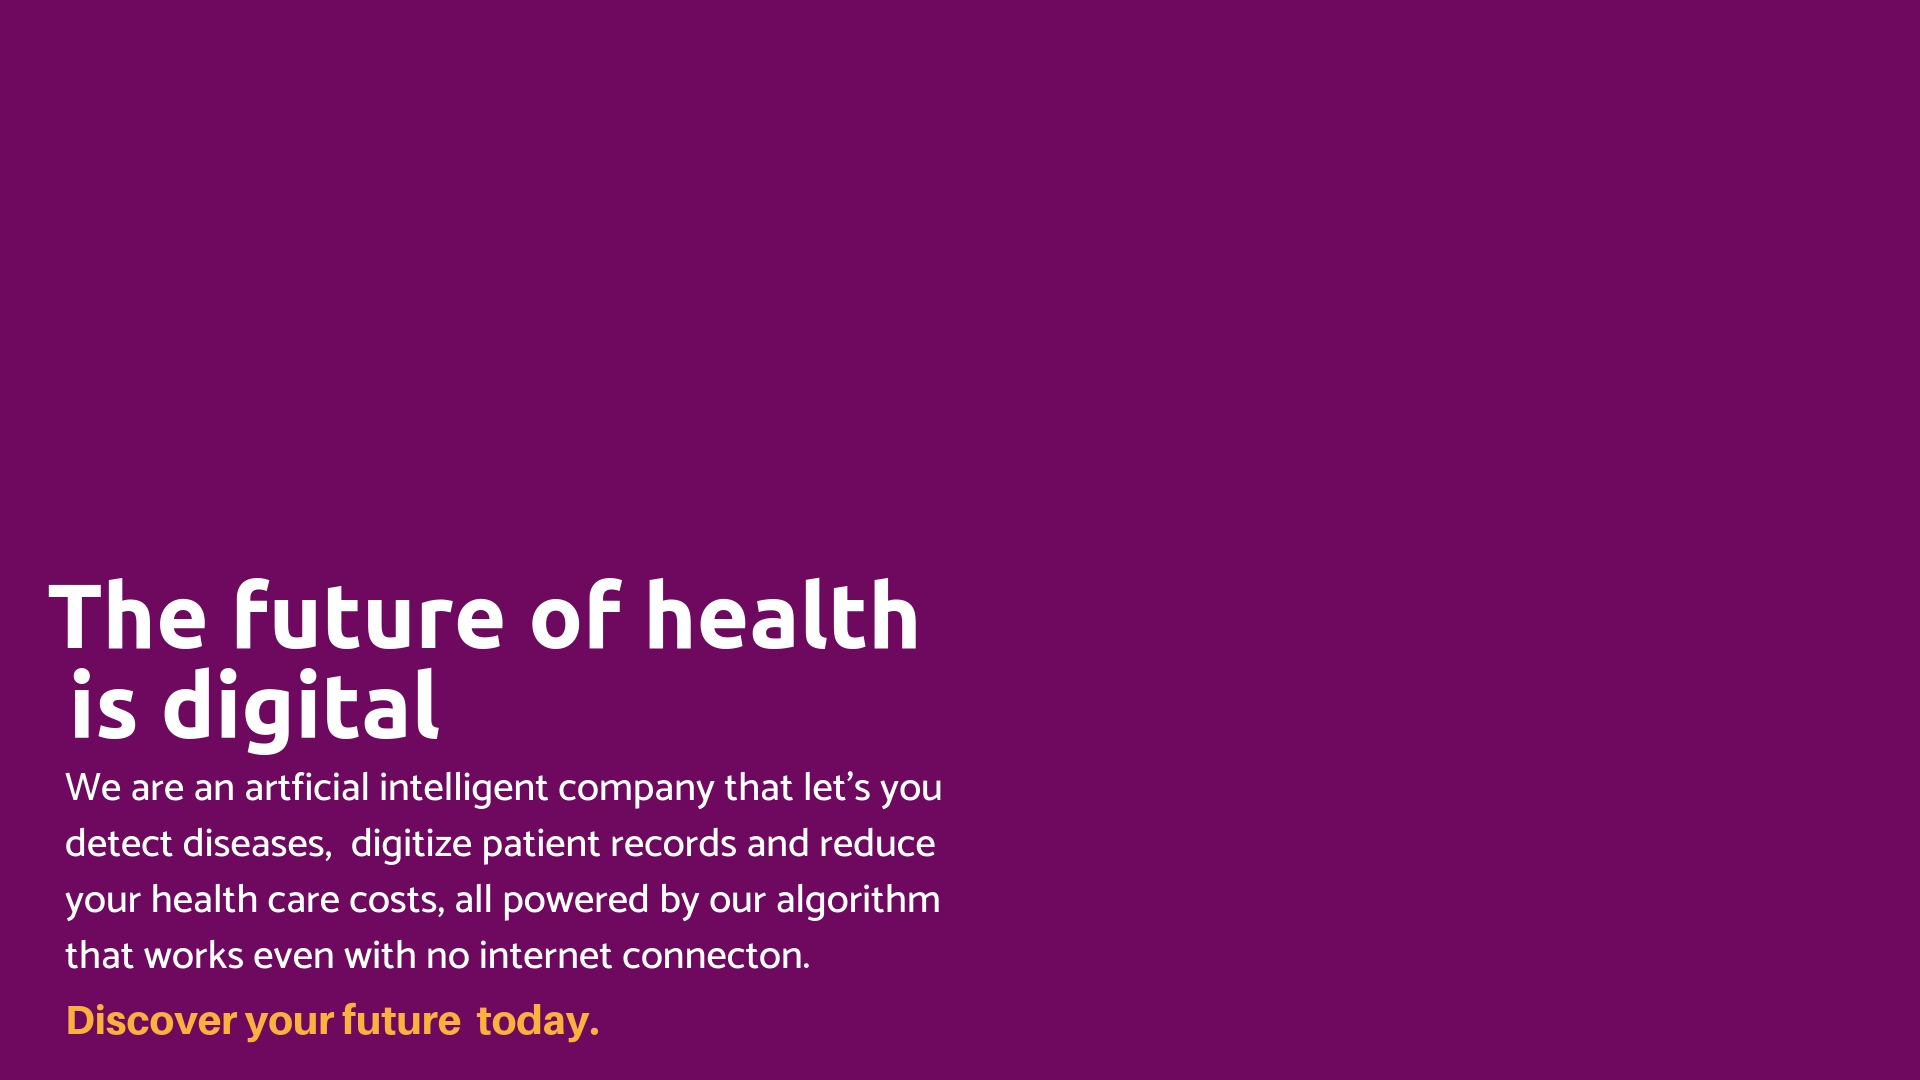
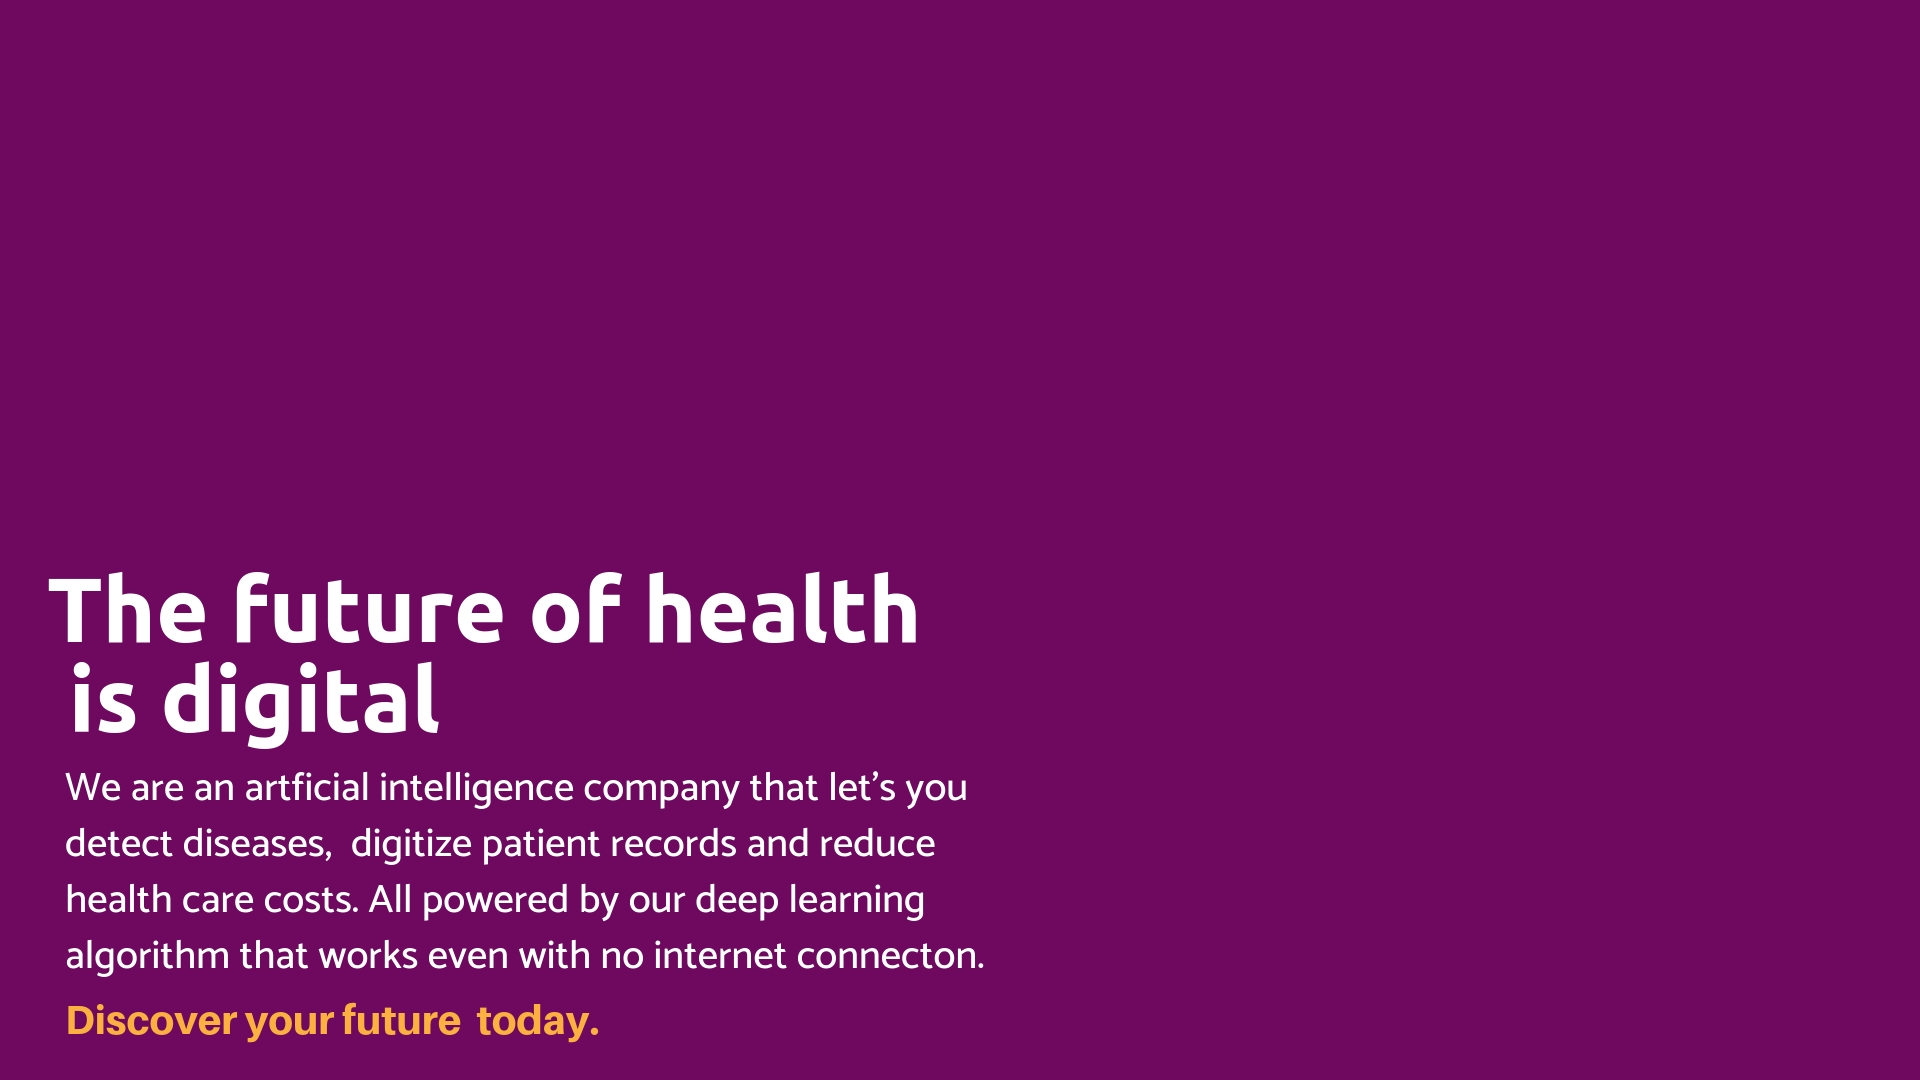
First commit

diff --git a/predict.html b/predict.html
@@ -91,6 +91,11 @@
             
             <h5 style="font-family: 'Catamaran', sans-serif; text-align: center; margin-top: 40px;"><b>"Artificial intelligence should be everywhere changing lives and not just sitting in some fancy lab somewhere" </b></h5>
 
+             <h5 style="font-family: 'Catamaran', sans-serif; text-align: center; margin-top: 40px;"><b>"Deep learning has been proven to detect diseases better than most dermatologists" </b></h5>
+
+             <h5 style="font-family: 'Catamaran', sans-serif; text-align: center; margin-top: 40px;"><b>"Early detection of melanoma is the only proven way the disease is curable" </b></h5>
+
+
 
      </div>
 
@@ -105,11 +110,11 @@
             <h5 style="font-family: Ubuntu; font-size: 30px;  text-align: center; margin-top: 40px;"><b>About us </b></h5>
             <p style="font-family: Ubuntu; margin-top: 20px;"> Kynect health is an artificial intelligence company using deep learning for medical diagnosis, medical big data analysis and primary health care which will drastically reduce health care costs and make it more affordable all over the world.</p>
 
-             <p style="font-family: Ubuntu; margin-top: 20px;"> Currently, millions of people die yearly & suddenly due to improper diagnosis, poor and high cost of healthcare, these are some of the factors that led me to create this company. My prototype software algorithm currently detects pyoderma and scabies at a 97% accuracy in less than 2 seconds with no internet connection once the app is downloaded on a mobile device or web browser  in less than a second and in the coming months with more data and funding will detect it at a 100% accuracy, diagnose more diseases including cancer and help solve many health problems in society on an easy to use software, we are taking Ai round the world for cheap .</p>
+             <p style="font-family: Ubuntu; margin-top: 20px;"> Currently, millions of people die yearly & suddenly due to improper diagnosis, poor and high cost of healthcare, these are some of the factors that led me to create this company. My prototype software algorithm currently detects pyoderma and scabies at a 97% accuracy in less than 2 seconds with no internet connection once the app is downloaded on a mobile device or web browser  in less than a second and in the coming months with funding will detect it at a 100% accuracy, diagnose more diseases including cancer and help solve many health problems in society on an easy to use software, we are taking Ai round the world for cheap .</p>
 
-             <p style="font-family: Ubuntu; margin-top: 20px;"> There are believed to be 111 million children alone believed to have Pyoderma with many co infected with scabies and more. Rarely resulting in hospitalization or death, there is a high and largely unmet demand for effective management at the primary health care level, particularly for pyoderma & scabies(Andrews et al, 2009).Hundreds of millions more adults and children are suffering from more diseases, some many don’t even know about because they haven’t been properly diagnosed including cancer and our software aims to detect all.</p>
+             <p style="font-family: Ubuntu; margin-top: 20px;"> There are believed to be 111 million children alone believed to have Pyoderma with many co infected with scabies and more. Rarely resulting in hospitalization or death, there is a high and largely unmet demand for effective management at the primary health care level, particularly for pyoderma & scabies(Andrews et al, 2009).Hundreds of millions more adults and children are suffering from more diseases, some many don’t even know about because they haven’t been properly diagnosed including cancer and our software is aimed at detecting everyone.</p>
 
-             <p style="font-family: Ubuntu; margin-top: 20px;"> Our company also digitizes patient records, in emerging markets especially these are still being done with papers and biros, using artificial intelligence(optical character recognition), hospitals will be able to transfer  existing patient records to the cloud with their mobile devices simply by taking a picture of the document, we will perform big data analysis which we will then use these tools to solve the greatest healthcare problems mankind faces. We aren’t just building an African company, we are building a global company that will tackle the problems of today and the problems of the future.</p>
+             <p style="font-family: Ubuntu; margin-top: 20px;"> Our company also digitizes patient records, in emerging markets especially. These are still being done with papers and biros, using artificial intelligence(optical character recognition), hospitals will be able to transfer  existing patient records to the cloud with their mobile devices simply by taking a picture of the document, we will perform big data analysis which we will then use to find trends and solve some of the greatest healthcare problems mankind faces. We aren’t just building an African company, we are building a global company that will tackle the problems of today and the problems of the future.</p>
        </div>
 
      </div>
@@ -143,7 +148,7 @@
     </div>
   </div>
     <div class="container-fluid" style="background: #922B21">
-    <p style="text-align: center; color: white; font-family: 'Catamaran', sans-serif; margin-top: 20px; font-style: italic;"> Warning: This webpage being hosted by the free version of heroku and is for prototyping purposes only. As a result, it may be slow. If you run into any errors, please refresh browser </p>
+    <p style="text-align: center; color: white; font-family: 'Catamaran', sans-serif; margin-top: 20px; font-style: italic;"> Warning: This webpage is being hosted by the free version of heroku and is for prototyping purposes only. As a result, it may be slow. If you run into any errors, please refresh browser </p>
   </div>
     </main>
 

diff --git a/predict.js b/predict.js
@@ -1,3 +1,4 @@
+//open file and read image
 $("#file").change(function () {
     let reader= new FileReader();
     reader.onload = function (image) {
@@ -11,13 +12,15 @@ $("#file").change(function () {
     reader.readAsDataURL(this.files[0]);
     
 });
-
+// load model
 let model;
 (async function() {
     model = await tf.loadModel('https://glacial-river-37235.herokuapp.com/models/model.json');
+    
     $('.progress-bar').hide();
 })();
 
+//predict image
 $("#predict-button").click(async function () {
     let image = $('#selected-image').get(0);
     let offset = tf.scalar(127.5);

diff --git a/home.css b/home.css
@@ -49,7 +49,7 @@
 /* Centered text */
 .centered {
     position: absolute;
-    top: 52%;
+    top: 60%;
     left: 50%;
     transform: translate(-50%, -50%);
 }
